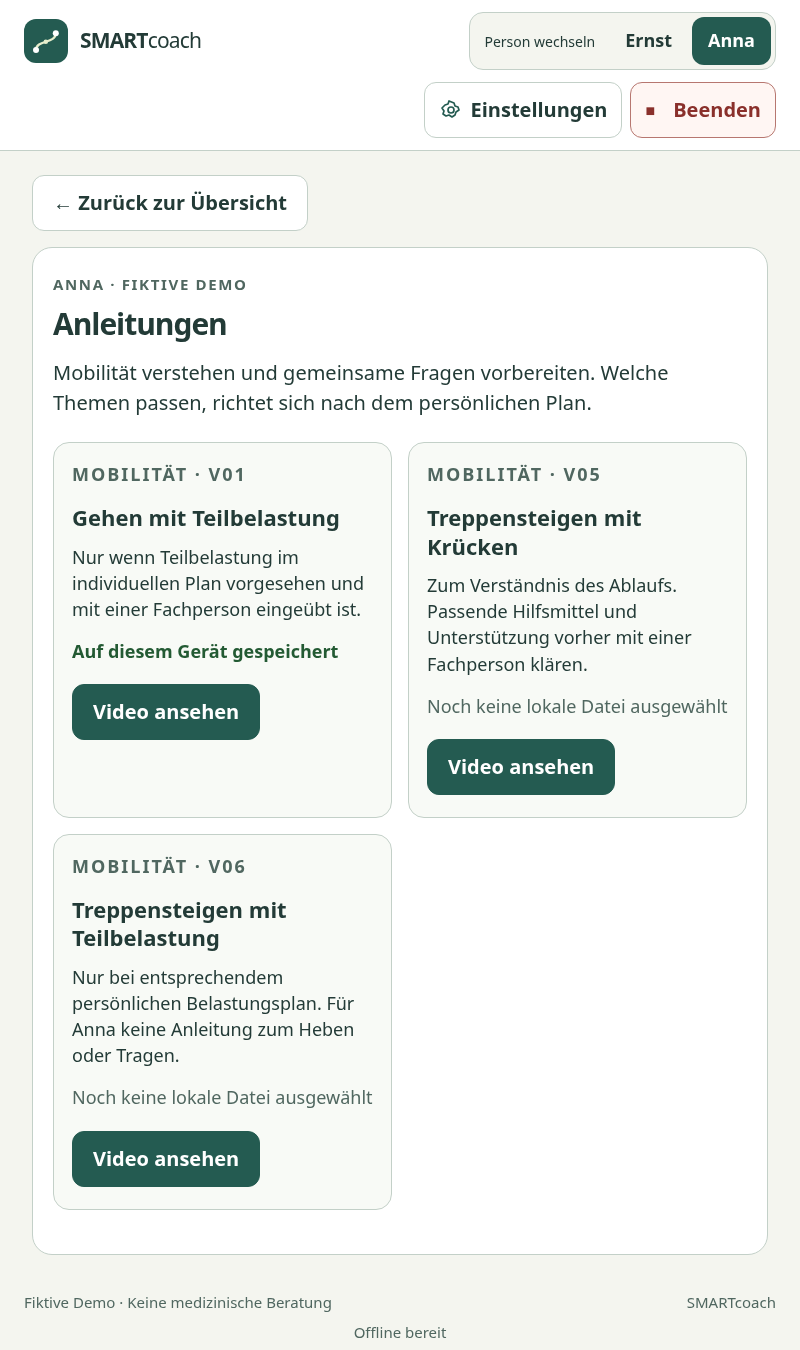
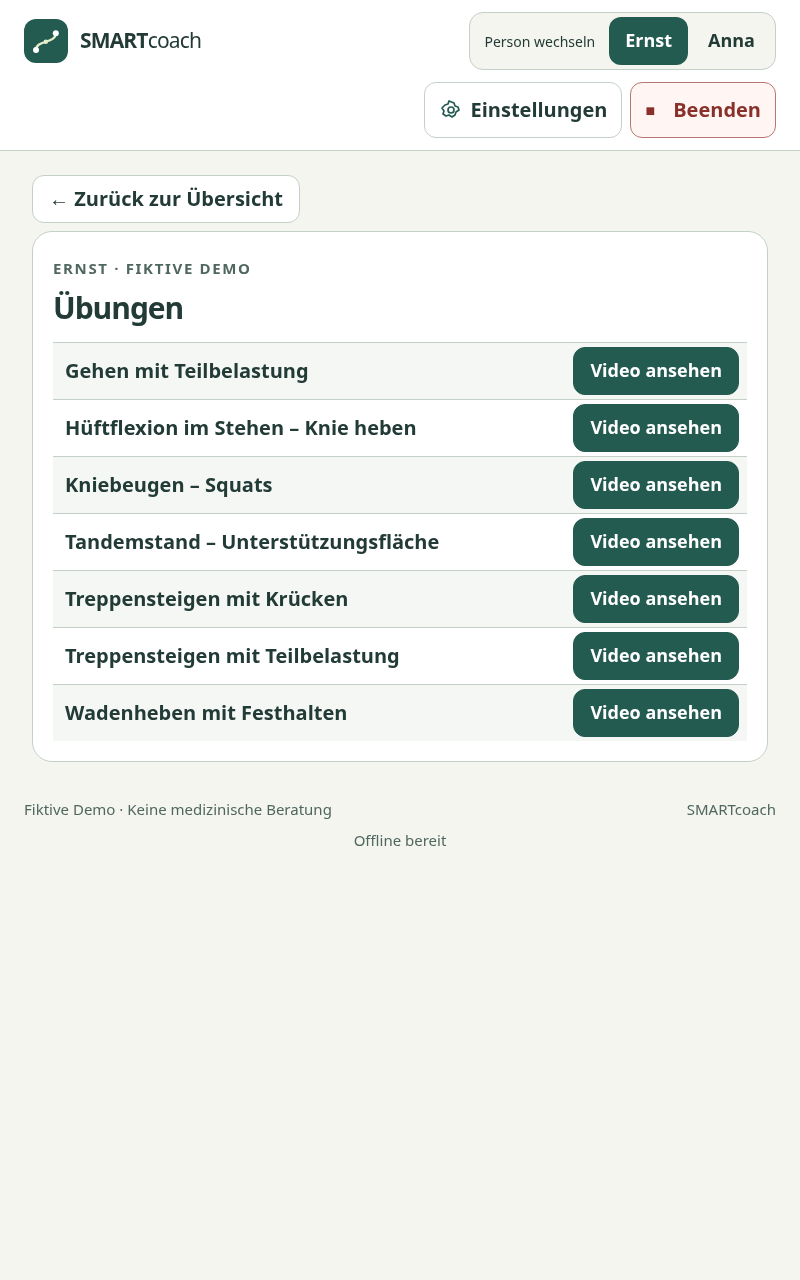
feat: show all exercise videos in a compact table

diff --git a/styles.css b/styles.css
@@ -1276,24 +1276,26 @@ main.dashboard {
 }
 
 body:has(.dashboard) .connection { font-size:.65rem; padding-bottom:4px; }
-.content-list,.video-catalog { display:grid; gap:16px; margin:24px 0; }
+.content-list { display:grid; gap:16px; margin:24px 0; }
 .media-detail { max-width:1200px; }
 .media-detail>.card { padding:20px; }
 .media-detail h1 { font-size:1.5rem; margin:8px 0 16px; }
 .media-detail .back { margin-bottom:16px; }
-.video-catalog { grid-template-columns:repeat(2,minmax(0,1fr)); }
-.video-catalog .video-card { margin:0; padding:18px; }
-.video-card h2 { font-size:1.1rem; }
-.video-card>p { font-size:.9rem; line-height:1.45; }
+.video-library>.back { min-height:48px; padding:8px 16px; margin-bottom:8px; }
+.video-catalog { width:100%; border-collapse:collapse; margin:8px 0 0; }
+.video-row { border-top:1px solid var(--border); }
+.video-row th { padding:8px 12px; text-align:left; font-size:1rem; font-weight:600; overflow-wrap:anywhere; }
+.video-row td { padding:4px 8px; width:1%; white-space:nowrap; }
+.video-row button { min-height:48px; min-width:48px; padding:8px 16px; font-size:.9rem; }
+.video-row:nth-child(odd) { background:#f4f7f3; }
 .settings-video-library summary,.video-controls summary { min-height:48px; padding:12px 0; cursor:pointer; }
 .content-choice { text-align:left; }
 .content-choice small { display:block; color:var(--muted); font-weight:400; margin-top:6px; }
 .report-section { margin:24px 0; padding:20px; border-radius:14px; background:#f0f6f4; }
 .report-section h2 { font-size:1.15rem; }
-.entry-card,.video-card { padding:24px; margin:20px 0; border:1px solid var(--border); border-radius:16px; background:#f8faf6; min-width:0; }
+.entry-card { padding:24px; margin:20px 0; border:1px solid var(--border); border-radius:16px; background:#f8faf6; min-width:0; }
 .entry-card .eyebrow { line-height:1.5; }
-.video-card button,.entry-card button { margin:4px 8px 4px 0; }
-.available { color:#235a33; font-weight:650; }
+.entry-card button { margin:4px 8px 4px 0; }
 #local-player { width:100%; height:100%; display:block; background:#101c1a; object-fit:contain; }
 #local-player[hidden] { display:none; }
 main.video-view { max-width:none; padding:0; }
@@ -1312,13 +1314,15 @@ main.video-view { max-width:none; padding:0; }
 .video-setting { padding:16px 0; border-top:1px solid var(--border); }
 .video-setting button { margin-top:12px; }
 .media-filename { overflow-wrap:anywhere; font-size:.85rem; }
-.detail h1,.content-choice,.entry-card h2,.video-card h2,.report-section h2 { overflow-wrap:anywhere; }
+.detail h1,.content-choice,.entry-card h2,.report-section h2 { overflow-wrap:anywhere; }
 #video-settings input { width:100%; min-width:0; min-height:56px; font:inherit; }
 #video-settings input::file-selector-button { min-height:56px; padding:12px; font:inherit; border:1px solid var(--border); border-radius:12px; background:var(--pale); color:var(--ink); }
 #video-settings input:focus-visible { outline:4px solid var(--focus); outline-offset:4px; }
 @media(max-width:740px) {
-  .video-catalog { grid-template-columns:1fr; }
-  .entry-card,.video-card,.report-section { padding:16px; }
+  .entry-card,.report-section { padding:16px; }
+  .video-row th { padding:8px 6px; }
+  .video-row td { padding:4px; white-space:normal; }
+  .video-row button { padding:8px; }
   .video-header .role-switch { order:3; width:100%; margin:0; }
   .video-header .brand { flex:1; }
   .video-header .video-back { order:4; width:100%; }

diff --git a/app.js b/app.js
@@ -294,10 +294,10 @@
   function videosPage() {
     const videos = content.videos.filter(video => video.roles.includes(preferences.role));
     return roleDetail(isRelative() ? 'Anleitungen' : 'Übungen',
-      `<p>${isRelative() ? 'Mobilität verstehen und gemeinsame Fragen vorbereiten.' : 'Videos zu Übungen und Mobilität.'} Welche Themen passen, richtet sich nach dem persönlichen Plan.</p>
-      <div class="video-catalog">${videos.map(video => `<article class="video-card"><p class="eyebrow">${escape(video.meta.Kategorie)} · ${video.id}</p><h2>${escape(video.title)}</h2>${content.markdown(video.sections.Hinweis)}
-      <p class="small ${videoKeys.has(video.id) ? 'available' : 'muted'}">${videoKeys.has(video.id) ? window.SMART_VIDEOS.sessionInfo(video.id)?.persistent === false ? 'Für diese Sitzung ausgewählt' : 'Auf diesem Gerät gespeichert' : 'Noch keine lokale Datei ausgewählt'}</p>
-      ${button('Video ansehen', `video-${video.id}`, 'primary')}</article>`).join('')}</div>`, 'home', 'media-detail');
+      `<table class="video-catalog"><caption class="visually-hidden">${isRelative() ? 'Anleitungen für Anna' : 'Übungsvideos für Ernst'}</caption>
+      <thead class="visually-hidden"><tr><th scope="col">Video</th><th scope="col">Wiedergabe</th></tr></thead>
+      <tbody>${videos.map(video => `<tr class="video-row"><th scope="row">${escape(video.title)}</th>
+      <td>${button('Video ansehen', `video-${video.id}`, 'primary', `aria-label="Video ansehen: ${escape(video.title)}"`)}</td></tr>`).join('')}</tbody></table>`, 'home', 'media-detail video-library');
   }
   function videoPage(video) {
     if (!video.roles.includes(preferences.role)) return roleDetail('Video-Thema für Ernst', '<p>Dieses Thema finden Sie in Ernsts Übungsbibliothek.</p>');

diff --git a/sw.js b/sw.js
@@ -1,6 +1,6 @@
 /* Increment the cache version whenever the app shell changes. */
 const PREFIX = `smartcoach-shell:${new URL(self.registration.scope).pathname}:`;
-const CACHE = `${PREFIX}v0.3.2`;
+const CACHE = `${PREFIX}v0.3.3`;
 const CONTENT = ['./content/genesungsweg.md', './content/berichte.md', './content/videos.md'];
 const SHELL = ['./', './index.html', './styles.css', './demo-data.js', './dashboard-data.js', './idle-image.js', './app.js', './content.js', './local-videos.js',
   './manifest.webmanifest', './assets/icon.svg', './assets/icon-192.png', './assets/icon-512.png',

diff --git a/tests/test_browser.py b/tests/test_browser.py
@@ -544,8 +544,18 @@ class BrowserTests(unittest.TestCase):
     def test_video_catalogue_roles_and_missing_local_file(self):
         self.home()
         self.action('exercises').click()
-        expect(self.page.locator('.video-card')).to_have_count(7)
-        self.action('video-V01').click()
+        expect(self.page.locator('.video-row')).to_have_count(7)
+        expect(self.page.get_by_role('table', name='Übungsvideos für Ernst')).to_be_visible()
+        for width, height in [(1280, 800), (800, 1280)]:
+            self.page.set_viewport_size({'width': width, 'height': height})
+            last = self.page.locator('.video-row').last.bounding_box()
+            self.assertLessEqual(last['y'] + last['height'], height, 'Alle sieben Filme sichtbar')
+            for target in self.page.locator('.video-row button').all():
+                bounds = target.bounding_box()
+                self.assertGreaterEqual(bounds['height'], 48)
+                self.assertGreaterEqual(bounds['width'], 48)
+        self.action('video-V01').focus()
+        self.page.keyboard.press('Enter')
         expect(self.page.locator('#video-status')).to_contain_text('noch nicht ausgewählt')
         self.assertTrue(self.action('play-video').is_disabled())
         self.assertIsNone(self.page.locator('video').get_attribute('src'))
@@ -553,7 +563,7 @@ class BrowserTests(unittest.TestCase):
         self.action('role-relative').click()
         self.action('exercises').click()
         expect(self.page.locator('h1')).to_have_text('Anleitungen')
-        expect(self.page.locator('.video-card')).to_have_count(3)
+        expect(self.page.locator('.video-row')).to_have_count(3)
         expect(self.page.locator('.video-catalog')).to_contain_text('Treppensteigen mit Krücken')
         expect(self.page.locator('.video-catalog')).not_to_contain_text('Kniebeugen')
 
@@ -748,8 +758,8 @@ class BrowserTests(unittest.TestCase):
         self.action('home').first.click()
         self.action('role-relative').click()
         self.action('exercises').click()
-        expect(self.page.locator('.video-card')).to_have_count(3)
-        ids = self.page.locator('.video-card button').evaluate_all('(buttons) => buttons.map(button => button.dataset.action)')
+        expect(self.page.locator('.video-row')).to_have_count(3)
+        ids = self.page.locator('.video-row button').evaluate_all('(buttons) => buttons.map(button => button.dataset.action)')
         self.assertEqual(len(ids), 3)
         for action in ids:
             self.action(action).click()

diff --git a/docs/TESTBERICHT.md b/docs/TESTBERICHT.md
@@ -1,4 +1,4 @@
-# SMARTcoach 0.3.2 – Grosse Videoansicht und zentrale Dateiverwaltung
+# SMARTcoach 0.3.3 – Kompakte Videoübersicht
 
 Prüfdatum: 09.11.2026. Lokale Cloud-Entwicklungsumgebung, Python 3.12.14,
 Playwright 1.62.0, Chromium 156.0.8078.79 (headless). Ausschliesslich fiktive Daten.
@@ -8,11 +8,32 @@ Playwright 1.62.0, Chromium 156.0.8078.79 (headless). Ausschliesslich fiktive Da
 `python3 -m unittest discover -s tests -v`
 
 **37 Tests ausgeführt, 37 bestanden, 0 fehlgeschlagen, 0 übersprungen.**
-Laufzeit der finalen Ausführung: 32,7 Sekunden. Keine JavaScript-Laufzeitfehler in
+Laufzeit der finalen Ausführung: 36,7 Sekunden. Keine JavaScript-Laufzeitfehler in
 den geprüften Ansichten. Die Suite nutzt echte Browserkontexte und einen lokalen
 HTTP-Server unter `/SMARTcoach/`; Root-Hosting wird separat geprüft.
 
-## Neue Videoansicht und Dateiverwaltung
+## Kompakte Videoübersicht
+
+Die Karten in Übungen/Anleitungen wurden durch eine semantische Tabelle ersetzt.
+Jede Zeile enthält ausschliesslich den Titel und eine Schaltfläche „Video ansehen“.
+Die Schaltflächen tragen zusätzlich einen zugänglichen Namen mit dem Filmtitel.
+Hinweise bleiben auf der Videoseite erhalten; Auswahl und Zuordnung bleiben in
+den Einstellungen. Es wurden keine Daten oder Zuordnungen geändert.
+
+Die bestehende Katalogprüfung kontrolliert jetzt, dass alle sieben Einträge bei
+1280×800 und 800×1280 vollständig im sichtbaren Bereich liegen und die
+Abspielschaltflächen mindestens 48×48 CSS-Pixel messen. Das Öffnen des ersten
+Films per Tastatur und die drei rollenspezifischen Anleitungen für Anna sind
+ebenfalls geprüft. Die Prüfung bei 360 Pixeln und sehr grosser Schrift bleibt
+erhalten; dort darf vertikal gescrollt werden.
+Bei der Screenshot-Aufnahme im Querformat betrug die gesamte Seitenhöhe
+800 Pixel bei 800 Pixeln Viewporthöhe; die letzte Filmzeile endete bei 669 Pixeln.
+
+Aktuelle Screenshots: [Ernst quer](screenshots/videoauswahl-ernst.png),
+[Ernst hoch](screenshots/videoauswahl-portrait.png) und
+[Anna quer](screenshots/videoauswahl-anna.png).
+
+## Erhaltene Videoansicht und Dateiverwaltung
 
 Dateien werden ausschliesslich unter Einstellungen → Lokale Übungsvideos
 ausgewählt. Dort sind Mehrfachimport, direkte Zuordnung einzelner Dateien mit
@@ -56,7 +77,7 @@ Player wird bei Medienfehlern ausgeblendet; ein lesbarer Hinweis bleibt sichtbar
 Die direkte Auswahl mit langem Dateinamen wurde zusätzlich bei 360 Pixeln mit
 sehr grosser Schrift ohne horizontalen Überlauf geprüft. Der bestehende Test für
 Offline-Neustart, erneute Wiedergabe, Löschen und globales Beenden besteht weiter.
-Service-Worker-App-Shell-Version: `v0.3.2`.
+Service-Worker-App-Shell-Version: `v0.3.3`.
 
 Diese Ergebnisse belegen die genannten technischen Fehler und Korrekturen. Sie
 bestimmen nicht den Codec oder die genaue Ursache des Fehlers der sieben privaten

diff --git a/README.md b/README.md
@@ -1,4 +1,4 @@
-# SMARTcoach · Lokale Videos und Demo-Inhalte 0.3.2
+# SMARTcoach · Lokale Videos und Demo-Inhalte 0.3.3
 
 Klickbares PWA-Mock-up für Android-Tablets, umgesetzt mit HTML, CSS und Vanilla
 JavaScript. **Phase A**: Orientierung, Navigation und gestalterische Prüfung mit
@@ -51,7 +51,12 @@ Fotos, Schriftgrösse und Animationseinstellung bleiben erhalten.
 ## Lokale Videos und redaktionelle Inhalte
 
 Unter **Übungen** (Ernst) stehen sieben Video-Themen bereit. **Anleitungen** (Anna)
-zeigt die drei Mobilitätsfilme zu Gehen und Treppen. Die Zuordnung erfolgt anhand
+zeigt die drei Mobilitätsfilme zu Gehen und Treppen. Eine kompakte Tabelle zeigt
+nur Titel und **Video ansehen**. Bei 1280×800 und 800×1280 sind alle sieben
+Einträge für Ernst gleichzeitig sichtbar. Hinweise zum jeweiligen Film stehen
+auf der Videoseite unter dem Player; die Dateiverwaltung bleibt in den Einstellungen.
+Bei kleinen Bildschirmen und sehr grosser Schrift darf die Liste vertikal scrollen.
+Die Zuordnung erfolgt anhand
 der genannten Dateinamen, nicht anhand einer fachlichen Prüfung des Filminhalts.
 Sie ist keine individuelle Übungsfreigabe. Konkrete Belastung und Übungsdosierung
 bleiben an den persönlichen Plan gebunden.
